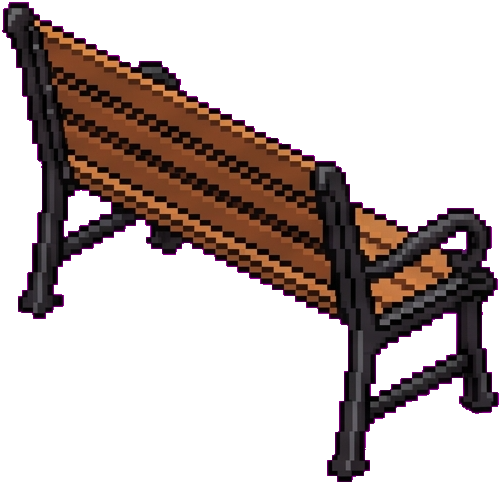
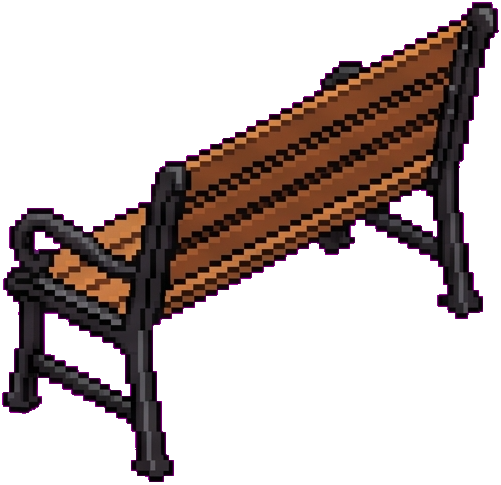
feat: fix ghost player, 8-dir bench rotation, 3-tier movement speeds, and swipe/keyboard controls

diff --git a/src/renderer/pixi/PixiWorldRenderer.ts b/src/renderer/pixi/PixiWorldRenderer.ts
@@ -85,29 +85,65 @@ export class PixiWorldRenderer implements IRenderer {
 
   // 入力キー状態
   public keys: { [key: string]: boolean } = {};
+  public playerMoveTier: 'walk' | 'jog' | 'dash' = 'walk';
   private lastTapKey: string | null = null;
   private lastTapTime: number = 0;
-  public isDoubleTapSprinting: boolean = false;
+  private sameKeyTapCount: number = 0;
 
   public onKeyDown(code: string) {
     this.keys[code] = true;
 
-    // 移動キー (WASD / 矢印キー) のダブルタップ判定 (320ms以内の連打でダッシュ発動)
+    // 移動キー (WASD / 矢印キー) の連打判定 (650ms以内の連打でゆったり判定)
     const isMoveKey = ['KeyW', 'KeyA', 'KeyS', 'KeyD', 'ArrowUp', 'ArrowDown', 'ArrowLeft', 'ArrowRight'].includes(code);
+    const now = performance.now();
+
     if (isMoveKey) {
-      const now = performance.now();
-      if (this.lastTapKey === code && now - this.lastTapTime < 320) {
-        this.isDoubleTapSprinting = true;
+      if (this.lastTapKey === code && now - this.lastTapTime < 650) {
+        this.sameKeyTapCount = Math.min(3, this.sameKeyTapCount + 1);
+      } else {
+        this.sameKeyTapCount = 1;
       }
       this.lastTapKey = code;
       this.lastTapTime = now;
+
+      // 1. 方向キーで歩き ➜ 同じ方向キー2回連続入力で小走り
+      // 2. 同じ方向キー3回連続入力でダッシュに切り替え
+      if (this.sameKeyTapCount === 2) {
+        if (this.playerMoveTier === 'walk') {
+          this.playerMoveTier = 'jog';
+        } else if (this.playerMoveTier === 'jog') {
+          // すでにCtrl等で小走りになっていた場合は2回連打でダッシュに昇格
+          this.playerMoveTier = 'dash';
+        }
+      } else if (this.sameKeyTapCount >= 3) {
+        this.playerMoveTier = 'dash';
+      }
+    }
+
+    // Ctrl キー または Shift キーの組み合わせ判定
+    const isCtrl = Boolean(this.keys['ControlLeft'] || this.keys['ControlRight'] || this.keys['Control']);
+    const isShift = Boolean(this.keys['ShiftLeft'] || this.keys['ShiftRight'] || this.keys['Shift']);
+
+    if (isCtrl && isShift) {
+      // 方向キーで歩き ➜ CTRLキーを押しながらSHIFTキーでいきなりダッシュ
+      // 方向キーで歩き ➜ CTRLキーで小走り ➜ CTRLキーを押しながらSHIFTキーでダッシュ
+      this.playerMoveTier = 'dash';
+    } else if (code === 'ControlLeft' || code === 'ControlRight' || code === 'Control') {
+      // 方向キーで歩き ➜ CTRLキーで小走り
+      if (this.playerMoveTier === 'walk') {
+        this.playerMoveTier = 'jog';
+      } else if (this.playerMoveTier === 'jog') {
+        // 同じ方向キー2回連続入力で小走り ➜ CTRLキーでダッシュに切り替え
+        this.playerMoveTier = 'dash';
+      }
     }
   }
 
   public onKeyUp(code: string) {
     this.keys[code] = false;
 
-    // 移動キーがすべて離されたらダブルタップダッシュをリセット
+    // 移動キーがすべて離されたら通常歩行に戻る
+    // （小走りもダッシュも一度切り替えればCTRLキーとSHIFTキーどちらを離してもその状態を維持）
     const k = this.keys;
     const isAnyMoveKeyPressed = Boolean(
       k['KeyW'] || k['ArrowUp'] || k['w'] || k['W'] ||
@@ -116,7 +152,8 @@ export class PixiWorldRenderer implements IRenderer {
       k['KeyD'] || k['ArrowRight'] || k['d'] || k['D']
     );
     if (!isAnyMoveKeyPressed) {
-      this.isDoubleTapSprinting = false;
+      this.playerMoveTier = 'walk';
+      this.sameKeyTapCount = 0;
     }
   }
 
@@ -140,6 +177,8 @@ export class PixiWorldRenderer implements IRenderer {
   private swipePointerId: number | null = null;
   private swipeStartPos: { x: number; y: number } = { x: 0, y: 0 };
   private swipeStartTime: number = 0;
+  private swipeRecentPoints: Array<{ x: number; y: number; t: number }> = [];
+  private swipeActiveTier: 'walk' | 'jog' | 'dash' = 'walk';
 
   // コールバック
   public onEntityClick?: (entityId: string) => void;
@@ -436,8 +475,10 @@ export class PixiWorldRenderer implements IRenderer {
     const isDown = Boolean(k['KeyS'] || k['ArrowDown'] || k['s'] || k['S']);
     const isLeft = Boolean(k['KeyA'] || k['ArrowLeft'] || k['a'] || k['A']);
     const isRight = Boolean(k['KeyD'] || k['ArrowRight'] || k['d'] || k['D']);
-    const isSprint = Boolean(k['ControlLeft'] || k['ControlRight'] || k['Control'] || this.isDoubleTapSprinting);
-    const isSneak = Boolean(k['ShiftLeft'] || k['ShiftRight'] || k['Shift']);
+    const isCtrl = Boolean(k['ControlLeft'] || k['ControlRight'] || k['Control']);
+    const isShift = Boolean(k['ShiftLeft'] || k['ShiftRight'] || k['Shift']);
+    // CTRLキーが押されている間はSHIFTキーでしゃがめない（ダッシュ移行や操作競合を防止）
+    const isSneak = isShift && !isCtrl;
     const isJump = Boolean(k['Space'] || k[' ']);
 
     // 方向ベクトル
@@ -450,7 +491,7 @@ export class PixiWorldRenderer implements IRenderer {
 
     const isMoving = dx !== 0 || dy !== 0;
     this.playerState.isMoving = isMoving;
-    this.playerState.isSprinting = isSprint && isMoving;
+    this.playerState.isSprinting = (this.playerMoveTier === 'dash' || this.playerMoveTier === 'jog') && isMoving;
     this.playerState.isSneaking = isSneak;
 
     // 🛋 ベンチ近くでしゃがむ（Shift / スマホしゃがみボタン）を押した際の自動着席
@@ -503,15 +544,19 @@ export class PixiWorldRenderer implements IRenderer {
       }
     }
 
-    // キビキビ動く快適な速度設定
-    let speed = 230; // 通常歩行
+    // 癒し空間と快適性を両立した3段階速度設定 (歩き: 120, 小走り: 190, ダッシュ: 280)
+    const isSprint = this.playerMoveTier === 'dash';
+    let speed = 120; // 通常歩行 (昭和レトロタウンをゆったり散策できる癒し速度)
     if (this.playerState.isDriving) {
-      speed = 580; // ランボルギーニ巡航速度 (徒歩の約2.5倍)
-      if (isSprint) speed = 920; // ターボ・ニトロ加速 (時速300km/h級)
-      else if (isSneak) speed = 220; // 慎重な車庫入れ速度
+      speed = 500; // ランボルギーニ巡航速度 (徒歩の4倍以上で明確に優位)
+      if (this.playerMoveTier === 'dash') speed = 880; // ターボ・ニトロ猛加速
+      else if (this.playerMoveTier === 'jog') speed = 650; // 高速クルージング
+      else if (isSneak) speed = 180; // 慎重な車庫入れ速度
     } else {
-      if (isSprint) speed = 400; // ダッシュ (約1.75倍)
-      else if (isSneak) speed = 90; // スニーク
+      if (isSneak) speed = 70; // スニーク (静かに忍び足)
+      else if (this.playerMoveTier === 'dash') speed = 280; // ダッシュ (しっかり走る爽快ダッシュ)
+      else if (this.playerMoveTier === 'jog') speed = 190; // 小走り (軽快なジョギング)
+      else speed = 120; // 歩き
     }
 
     // 現在の足場高さ (地面=0、またはオブジェクトの天面)
@@ -585,17 +630,18 @@ export class PixiWorldRenderer implements IRenderer {
       }
 
       // 歩行アニメーションタイマー
-      this.walkAnimTimer += dt * (isSprint ? 18 : 12);
+      const animSpeed = isSneak ? 6 : (this.playerMoveTier === 'dash' ? 20 : (this.playerMoveTier === 'jog' ? 14 : 9));
+      this.walkAnimTimer += dt * animSpeed;
 
       // 足音SE再生 (歩行時かつ接地中かつ非乗車時)
       if (!this.playerState.isDriving && this.playerState.z <= floorZ + 2) {
-        const stepInterval = isSprint ? 0.22 : 0.34;
+        const stepInterval = isSneak ? 0.52 : (this.playerMoveTier === 'dash' ? 0.20 : (this.playerMoveTier === 'jog' ? 0.28 : 0.40));
         const prevStepCount = Math.floor(this.stepTimer / stepInterval);
         this.stepTimer += dt;
         const curStepCount = Math.floor(this.stepTimer / stepInterval);
         if (curStepCount > prevStepCount) {
           const surface = this.getSurfaceAt(this.playerState.x, this.playerState.y);
-          audioManager.playFootstep(surface, isSprint);
+          audioManager.playFootstep(surface, this.playerMoveTier === 'dash');
         }
       } else {
         this.stepTimer = 0;
@@ -991,6 +1037,15 @@ export class PixiWorldRenderer implements IRenderer {
       }
     }
 
+    // 🛡 安全装置: depthContainer 内に entitySprites に登録されていない孤立スプライト（残留キャラ等）があれば完全排除
+    const registeredSprites = new Set(this.entitySprites.values());
+    for (let i = this.depthContainer.children.length - 1; i >= 0; i--) {
+      const child = this.depthContainer.children[i];
+      if (!registeredSprites.has(child as any)) {
+        this.depthContainer.removeChild(child);
+      }
+    }
+
     // 5. 選択ハイライト
     this.renderSelectionHighlight(world, assets, selectedEntityId);
 
@@ -1161,6 +1216,14 @@ export class PixiWorldRenderer implements IRenderer {
     direction?: Direction
   ) {
     let sprite = this.entitySprites.get(id);
+    if (!sprite) {
+      // 🚀 同期的に即座にスプライトを生成・登録し、非同期ロード中の重複生成レースコンディションを完全排除！
+      sprite = new Sprite();
+      sprite.eventMode = 'static';
+      this.entitySprites.set(id, sprite);
+      this.depthContainer.addChild(sprite);
+    }
+
     let targetUrl = asset.sprite.url;
 
     const dir: Direction = (id === 'player_main')
@@ -1178,12 +1241,7 @@ export class PixiWorldRenderer implements IRenderer {
     }
     const texture = await this.getTexture(targetUrl);
 
-    if (!sprite) {
-      sprite = new Sprite(texture);
-      sprite.eventMode = 'static';
-      this.entitySprites.set(id, sprite);
-      this.depthContainer.addChild(sprite);
-    } else {
+    if (sprite && !sprite.destroyed) {
       sprite.texture = texture;
     }
 
@@ -1602,6 +1660,8 @@ export class PixiWorldRenderer implements IRenderer {
     this.keys['KeyA'] = false;
     this.keys['KeyD'] = false;
     this.keys['ControlLeft'] = false;
+    this.keys['ControlRight'] = false;
+    this.keys['Control'] = false;
   }
 
   private setupInteractions(canvas: HTMLCanvasElement) {
@@ -1642,10 +1702,10 @@ export class PixiWorldRenderer implements IRenderer {
 
       // 🎯 左クリック / タッチ操作
       // 0. 🔄 すでにオブジェクトを掴んでいる最中に、別の指またはクリックが発生した場合:
-      // オブジェクトを掴みながら画面右側タップで時計回り、画面左側タップで反時計回り回転！
+      // 画面右側タップは左回転 (ccw)、画面左側タップは右回転 (cw)！
       if (this.draggingEntityId && (this.dragPointerId === null || e.pointerId !== this.dragPointerId)) {
         const isRightSide = e.clientX >= window.innerWidth / 2;
-        this.rotateDraggedEntity(isRightSide ? 'cw' : 'ccw');
+        this.rotateDraggedEntity(isRightSide ? 'ccw' : 'cw');
         hasMovedSignificantly = true;
         e.preventDefault();
         e.stopPropagation();
@@ -1679,7 +1739,11 @@ export class PixiWorldRenderer implements IRenderer {
         this.isSwipingMovement = true;
         this.swipePointerId = e.pointerId;
         this.swipeStartPos = { x: e.clientX, y: e.clientY };
-        this.swipeStartTime = performance.now();
+        const now = performance.now();
+        this.swipeStartTime = now;
+        this.swipeRecentPoints = [{ x: e.clientX, y: e.clientY, t: now }];
+        this.swipeActiveTier = 'walk';
+        this.playerMoveTier = 'walk';
         return;
       }
 
@@ -1738,21 +1802,57 @@ export class PixiWorldRenderer implements IRenderer {
       if (this.isSwipingMovement && (this.swipePointerId === null || this.swipePointerId === e.pointerId)) {
         const deltaX = e.clientX - this.swipeStartPos.x;
         const deltaY = e.clientY - this.swipeStartPos.y;
+        // 縦も横と同じ距離にしたいので縦幅10に対して判定を行わずスワイプ距離は常に横幅基準で判定
         const dist = Math.hypot(deltaX, deltaY);
 
-        // デッドゾーン (7px) 未満は停止
-        if (dist < 7) {
+        const now = performance.now();
+        this.swipeRecentPoints.push({ x: e.clientX, y: e.clientY, t: now });
+        while (this.swipeRecentPoints.length > 1 && now - this.swipeRecentPoints[0].t > 150) {
+          this.swipeRecentPoints.shift();
+        }
+
+        const oldestPoint = this.swipeRecentPoints[0];
+        const pointDt = Math.max(1, now - oldestPoint.t);
+        const pointDist = Math.hypot(e.clientX - oldestPoint.x, e.clientY - oldestPoint.y);
+        const recentVelocity = pointDist / pointDt; // px / ms
+
+        // デッドゾーン (8px) 未満は停止
+        if (dist < 8) {
           this.clearDirectionKeys();
           return;
         }
 
-        const now = performance.now();
-        const elapsed = Math.max(1, now - this.swipeStartTime);
-        const velocity = dist / elapsed; // 移動速度 px / ms
+        // スワイプ距離は常に画面横幅基準で判定 (3/10 で少しスワイプ、6/10 で大きくスワイプ)
+        const W = window.innerWidth;
+        const smallThreshold = W * 0.30;
+        const largeThreshold = W * 0.60;
 
-        // 素早いフリック (velocity > 0.20) または 大きめのスワイプ (dist >= 28px) でダッシュ発動
-        const isDashingNow = velocity > 0.20 || dist >= 28;
-        this.keys['ControlLeft'] = isDashingNow;
+        const isFastSwipe = recentVelocity > 0.60 || (now - this.swipeStartTime < 280 && dist >= 35);
+
+        // 状態遷移:
+        // ・ゆっくりスワイプで歩き（ゆっくりスワイプなら大きく引いても歩きのまま。8方向に大きく引いても歩き）
+        //   ➜ 素早くスワイプで小走り、素早く大きくスワイプでダッシュ
+        // ・素早く少しスワイプで小走り（そのまま8方向にスワイプしても小走り、そこから大きく引いても小走りのまま、素早く大きくスワイプでダッシュ）
+        // ・素早く大きくスワイプでダッシュ（そのまま8方向スワイプでもダッシュのまま）
+        if (this.swipeActiveTier === 'walk') {
+          if (isFastSwipe) {
+            if (dist >= largeThreshold) {
+              this.swipeActiveTier = 'dash';
+            } else {
+              this.swipeActiveTier = 'jog';
+            }
+          }
+          // ゆっくりスワイプなら大きく引いても walk のまま維持
+        } else if (this.swipeActiveTier === 'jog') {
+          if (isFastSwipe && dist >= largeThreshold) {
+            this.swipeActiveTier = 'dash';
+          }
+          // ゆっくり大きく引いた場合は jog のまま維持
+        } else if (this.swipeActiveTier === 'dash') {
+          // そのまま8方向スワイプでもダッシュのまま維持
+        }
+
+        this.playerMoveTier = this.swipeActiveTier;
 
         // 8方向スムーズ角度判定 (-180° 〜 180°)
         const angle = Math.atan2(deltaY, deltaX);
@@ -1776,6 +1876,9 @@ export class PixiWorldRenderer implements IRenderer {
       if (this.isSwipingMovement && (this.swipePointerId === null || this.swipePointerId === e.pointerId)) {
         this.isSwipingMovement = false;
         this.swipePointerId = null;
+        this.swipeRecentPoints = [];
+        this.swipeActiveTier = 'walk';
+        this.playerMoveTier = 'walk';
         this.clearDirectionKeys();
 
         // タップ時の処理（クリック自動歩行 targetMovePos は完全廃止）
@@ -1949,6 +2052,29 @@ export class PixiWorldRenderer implements IRenderer {
     audioManager.playPlace();
     this.onEntityRotate?.(entityId, newDir);
     return newDir;
+  }
+
+  // 🔄 任意のエンティティの向きを直接設定（UIボタン等からの呼び出し用）
+  public setEntityDirection(entityId: string, newDir: Direction): void {
+    const entity = this.currentWorld?.entities[entityId];
+    if (!entity) return;
+    entity.direction = newDir;
+
+    const asset = this.currentAssets?.[entity.assetId];
+    const sprite = this.entitySprites.get(entityId);
+    if (asset && sprite) {
+      this.updateEntitySprite(
+        entityId,
+        asset,
+        sprite.x,
+        sprite.y,
+        0,
+        1.0,
+        false,
+        newDir
+      );
+    }
+    audioManager.playPlace();
   }
 
   destroy(): void {

diff --git a/src/App.tsx b/src/App.tsx
@@ -117,10 +117,10 @@ export const App: React.FC = () => {
     renderer.isPlayMode = activeMode === 'play';
     renderer.isSnapToGrid = isSnapToGrid;
 
-    renderer.init(canvasContainerRef.current).then(() => {
+    renderer.init(canvasContainerRef.current).then(async () => {
       // 初期描画
-      renderer.render(world, assets, selectedEntityId, ghostEntities);
-      renderer.setPlayerAvatar(currentAvatarId);
+      await renderer.render(world, assets, selectedEntityId, ghostEntities);
+      await renderer.setPlayerAvatar(currentAvatarId);
 
       // 左クリック (選択)
       renderer.onEntityClick = (entityId: string) => {

diff --git a/src/ui/context/ObjectContextMenu.tsx b/src/ui/context/ObjectContextMenu.tsx
@@ -87,7 +87,11 @@ export const ObjectContextMenu: React.FC = () => {
 
     const renderer = (window as any).__renderer;
     if (renderer) {
-      renderer.rotateEntity(selectedEntityId, delta === 1 ? 'cw' : 'ccw');
+      if (typeof renderer.setEntityDirection === 'function') {
+        renderer.setEntityDirection(selectedEntityId, nextDir);
+      } else {
+        renderer.rotateEntity(selectedEntityId, delta === 1 ? 'cw' : 'ccw');
+      }
     }
 
     const label = DIRECTION_LABELS[nextDir] || nextDir;

diff --git a/src/renderer/IRenderer.ts b/src/renderer/IRenderer.ts
@@ -40,4 +40,5 @@ export interface IRenderer {
     endDir?: Direction
   ) => void;
   getEntityAtScreen?: (screenX: number, screenY: number) => string | null;
+  setEntityDirection?: (entityId: string, newDir: Direction) => void;
 }
